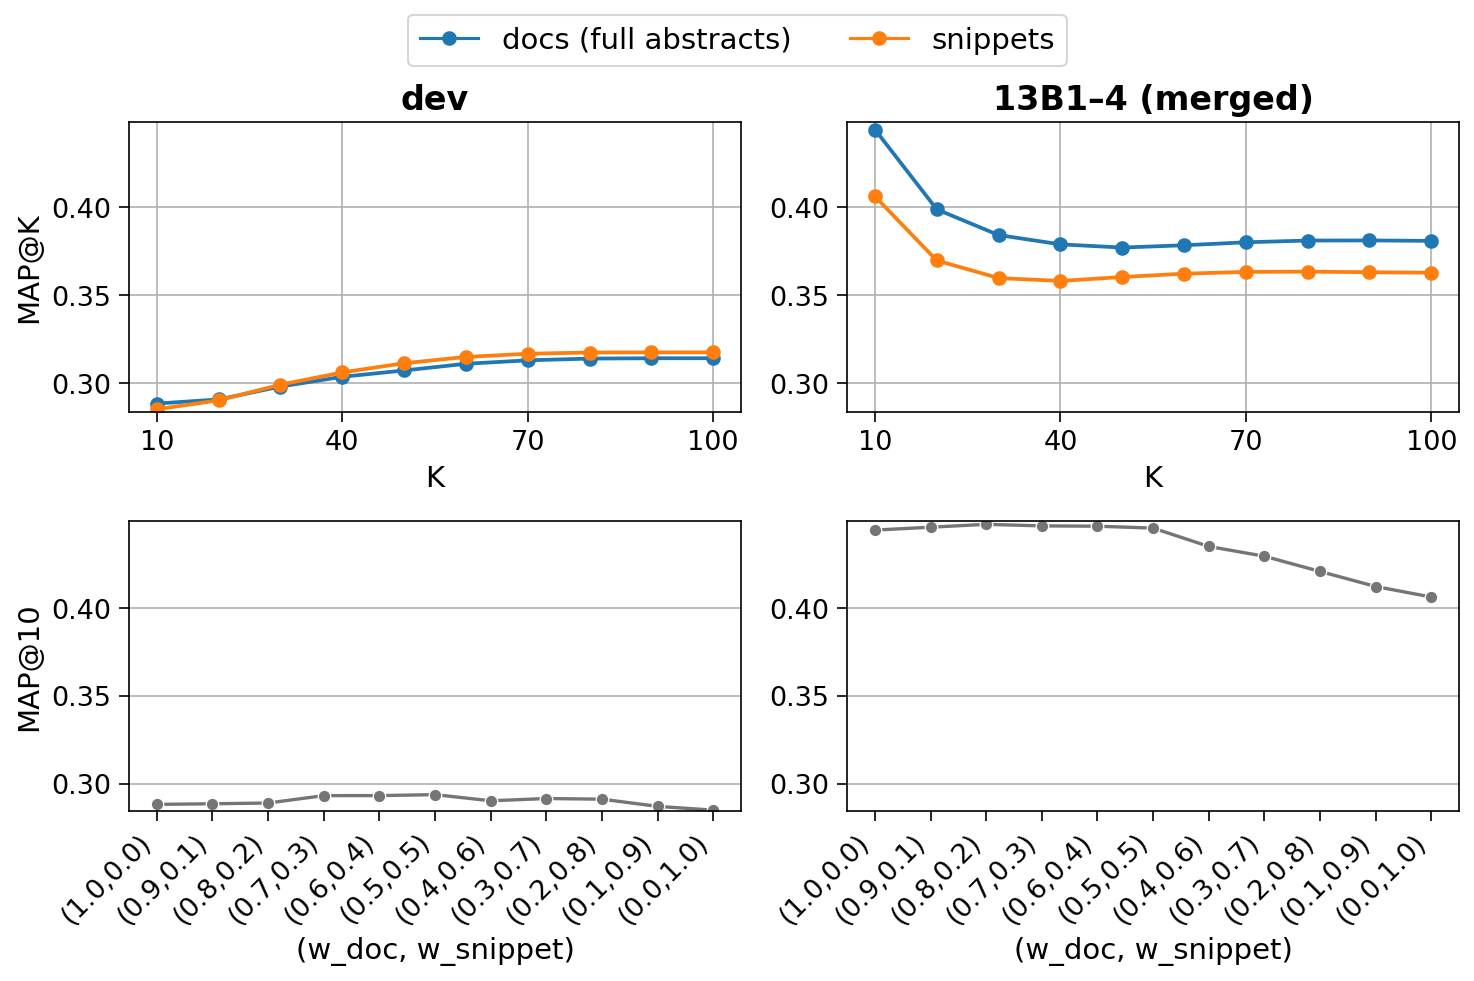
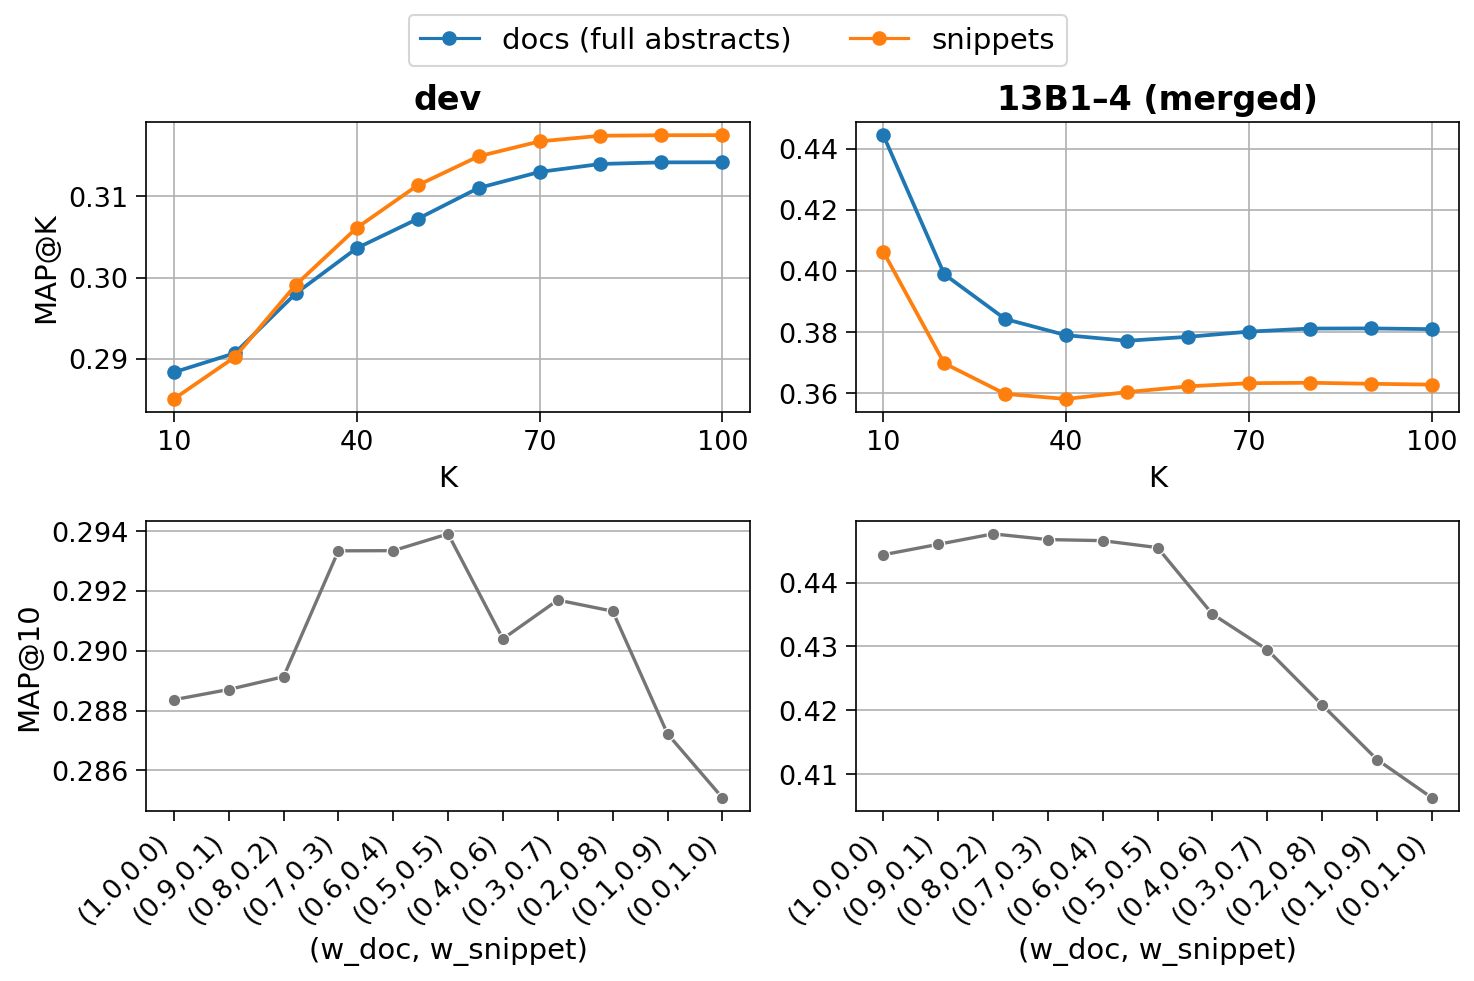
workingnotes

diff --git a/notebooks/workflow_baseline_full_run_report.py b/notebooks/workflow_baseline_full_run_report.py
@@ -1814,11 +1814,6 @@ if medcpt_map_curves and not rrf_results.empty:
             ax.set_xticklabels([str(k) for k in _wn_med_x])
             ax.grid(True, axis="y")
             ax.grid(True, axis="x")
-        # Share y on top row
-        top_ymin = min(axes[0, 0].get_ylim()[0], axes[0, 1].get_ylim()[0])
-        top_ymax = max(axes[0, 0].get_ylim()[1], axes[0, 1].get_ylim()[1])
-        for a in axes[0]:
-            a.set_ylim(top_ymin, top_ymax)
 
         # Bottom row: doc/snippet weight sweep MAP@10 (neutral line color — not top-row “docs” blue)
         _weight_sweep_color = "#757575"
@@ -1855,11 +1850,6 @@ if medcpt_map_curves and not rrf_results.empty:
                 ax.set_ylabel("MAP@10")
             ax.set_xlabel("(w_doc, w_snippet)")
             ax.grid(True, axis="y")
-        # Share y on bottom row
-        bot_ymin = min(axes[1, 0].get_ylim()[0], axes[1, 1].get_ylim()[0])
-        bot_ymax = max(axes[1, 0].get_ylim()[1], axes[1, 1].get_ylim()[1])
-        for a in axes[1]:
-            a.set_ylim(bot_ymin, bot_ymax)
 
         # Single legend for the docs/snippet line colors (top row)
         from matplotlib.lines import Line2D as _Line2D_snip
@@ -2017,10 +2007,6 @@ if bge_map_curves and not bge_rrf_results.empty:
             ax.set_xticklabels([str(k) for k in _wn_bge_x])
             ax.grid(True, axis="y")
             ax.grid(True, axis="x")
-        top_ymin = min(axes[0, 0].get_ylim()[0], axes[0, 1].get_ylim()[0])
-        top_ymax = max(axes[0, 0].get_ylim()[1], axes[0, 1].get_ylim()[1])
-        for a in axes[0]:
-            a.set_ylim(top_ymin, top_ymax)
 
         # Bottom row: doc/snippet weight sweep MAP@10
         _weight_sweep_color = "#757575"
@@ -2056,10 +2042,6 @@ if bge_map_curves and not bge_rrf_results.empty:
                 ax.set_ylabel("MAP@10")
             ax.set_xlabel("(w_doc, w_snippet)")
             ax.grid(True, axis="y")
-        bot_ymin = min(axes[1, 0].get_ylim()[0], axes[1, 1].get_ylim()[0])
-        bot_ymax = max(axes[1, 0].get_ylim()[1], axes[1, 1].get_ylim()[1])
-        for a in axes[1]:
-            a.set_ylim(bot_ymin, bot_ymax)
 
         from matplotlib.lines import Line2D as _Line2D_bge_snip
         snip_legend_bge = [
